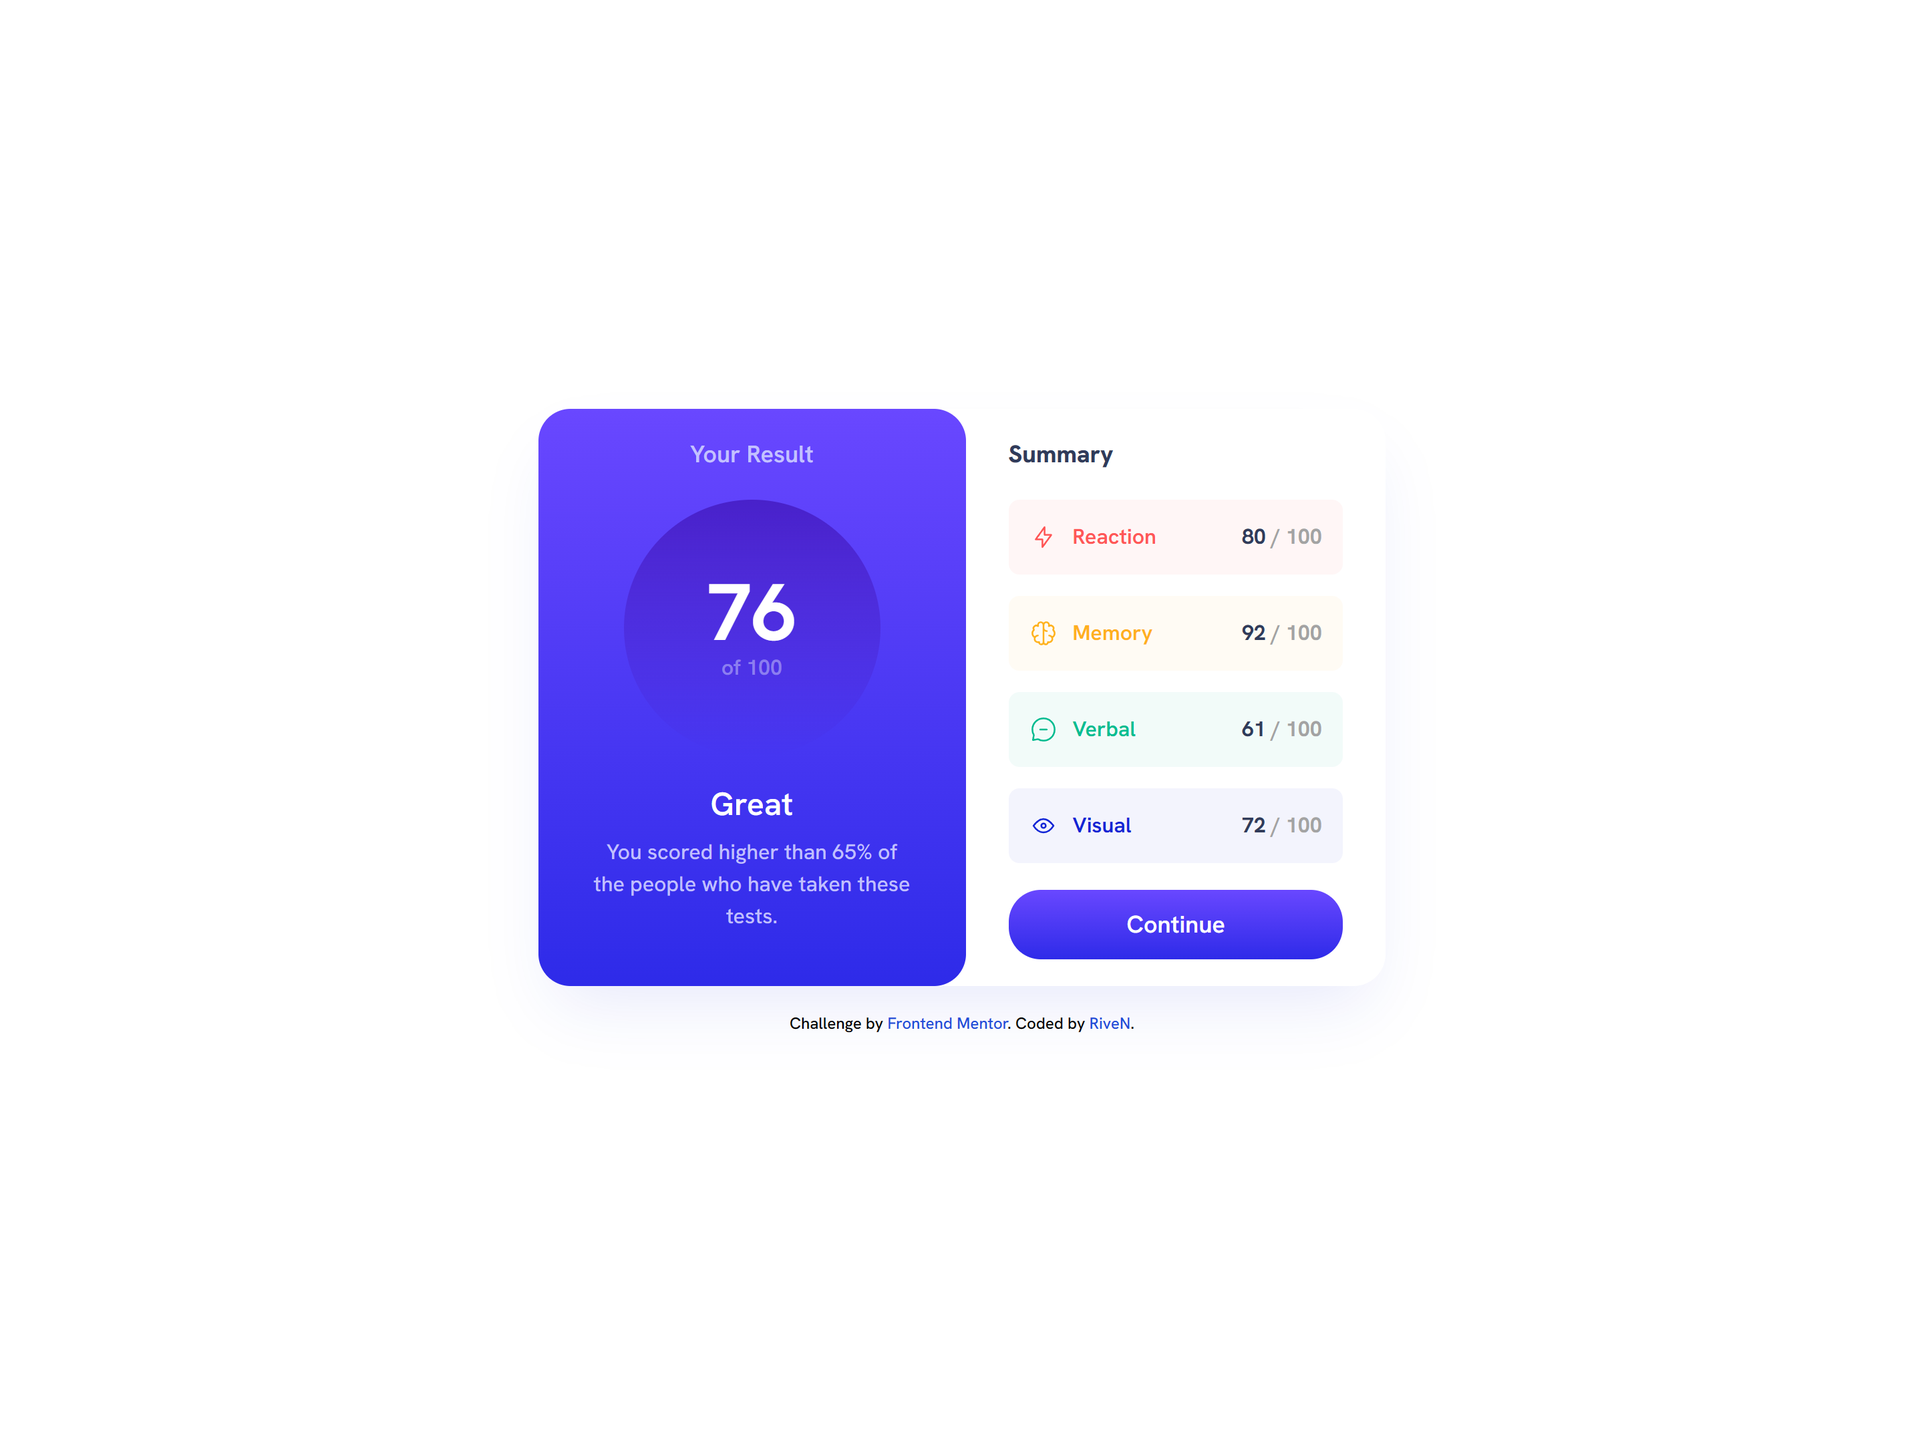
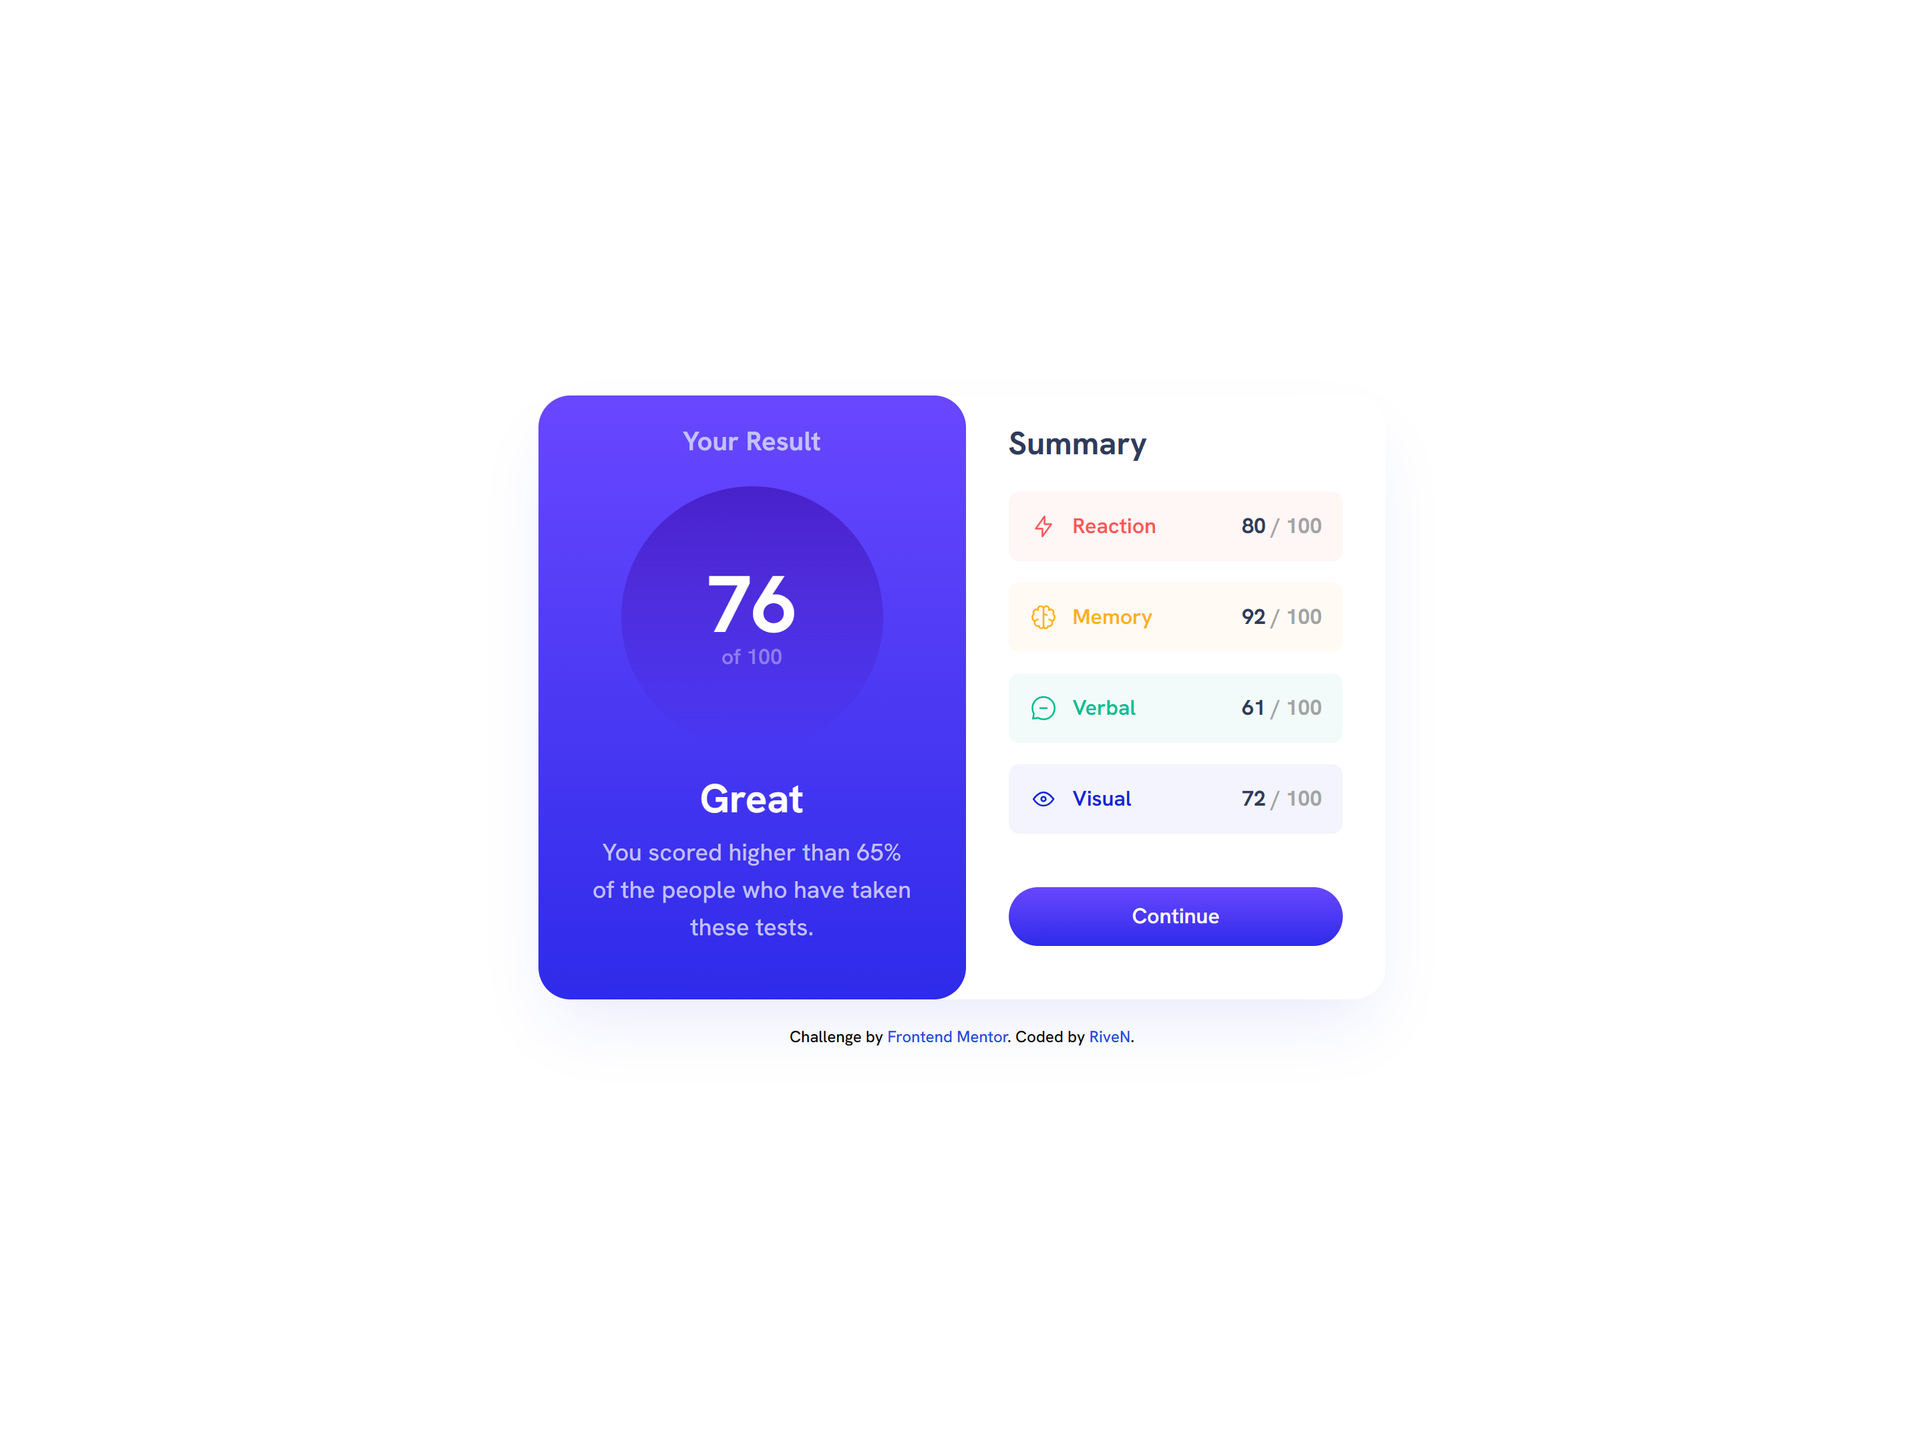
Improved desktop design better match with original

diff --git a/results-summary-component/styles.css b/results-summary-component/styles.css
@@ -1,1 +1,1 @@
-/*! tailwindcss v3.3.3 | MIT License | https://tailwindcss.com*/*,:after,:before{box-sizing:border-box;border:0 solid #e5e7eb}:after,:before{--tw-content:""}html{line-height:1.5;-webkit-text-size-adjust:100%;-moz-tab-size:4;-o-tab-size:4;tab-size:4;font-family:ui-sans-serif,system-ui,-apple-system,BlinkMacSystemFont,Segoe UI,Roboto,Helvetica Neue,Arial,Noto Sans,sans-serif,Apple Color Emoji,Segoe UI Emoji,Segoe UI Symbol,Noto Color Emoji;font-feature-settings:normal;font-variation-settings:normal}body{margin:0;line-height:inherit}hr{height:0;color:inherit;border-top-width:1px}abbr:where([title]){-webkit-text-decoration:underline dotted;text-decoration:underline dotted}h1,h2,h3,h4,h5,h6{font-size:inherit;font-weight:inherit}a{color:inherit;text-decoration:inherit}b,strong{font-weight:bolder}code,kbd,pre,samp{font-family:ui-monospace,SFMono-Regular,Menlo,Monaco,Consolas,Liberation Mono,Courier New,monospace;font-size:1em}small{font-size:80%}sub,sup{font-size:75%;line-height:0;position:relative;vertical-align:initial}sub{bottom:-.25em}sup{top:-.5em}table{text-indent:0;border-color:inherit;border-collapse:collapse}button,input,optgroup,select,textarea{font-family:inherit;font-feature-settings:inherit;font-variation-settings:inherit;font-size:100%;font-weight:inherit;line-height:inherit;color:inherit;margin:0;padding:0}button,select{text-transform:none}[type=button],[type=reset],[type=submit],button{-webkit-appearance:button;background-color:initial;background-image:none}:-moz-focusring{outline:auto}:-moz-ui-invalid{box-shadow:none}progress{vertical-align:initial}::-webkit-inner-spin-button,::-webkit-outer-spin-button{height:auto}[type=search]{-webkit-appearance:textfield;outline-offset:-2px}::-webkit-search-decoration{-webkit-appearance:none}::-webkit-file-upload-button{-webkit-appearance:button;font:inherit}summary{display:list-item}blockquote,dd,dl,figure,h1,h2,h3,h4,h5,h6,hr,p,pre{margin:0}fieldset{margin:0}fieldset,legend{padding:0}menu,ol,ul{list-style:none;margin:0;padding:0}dialog{padding:0}textarea{resize:vertical}input::-moz-placeholder,textarea::-moz-placeholder{opacity:1;color:#9ca3af}input::placeholder,textarea::placeholder{opacity:1;color:#9ca3af}[role=button],button{cursor:pointer}:disabled{cursor:default}audio,canvas,embed,iframe,img,object,svg,video{display:block;vertical-align:middle}img,video{max-width:100%;height:auto}[hidden]{display:none}@font-face{font-family:HankenGrotesk;src:url(assets/HankenGrotesk-VariableFont_wght.ttf);font-weight:500,700,800}*,::backdrop,:after,:before{--tw-border-spacing-x:0;--tw-border-spacing-y:0;--tw-translate-x:0;--tw-translate-y:0;--tw-rotate:0;--tw-skew-x:0;--tw-skew-y:0;--tw-scale-x:1;--tw-scale-y:1;--tw-pan-x: ;--tw-pan-y: ;--tw-pinch-zoom: ;--tw-scroll-snap-strictness:proximity;--tw-gradient-from-position: ;--tw-gradient-via-position: ;--tw-gradient-to-position: ;--tw-ordinal: ;--tw-slashed-zero: ;--tw-numeric-figure: ;--tw-numeric-spacing: ;--tw-numeric-fraction: ;--tw-ring-inset: ;--tw-ring-offset-width:0px;--tw-ring-offset-color:#fff;--tw-ring-color:#3b82f680;--tw-ring-offset-shadow:0 0 #0000;--tw-ring-shadow:0 0 #0000;--tw-shadow:0 0 #0000;--tw-shadow-colored:0 0 #0000;--tw-blur: ;--tw-brightness: ;--tw-contrast: ;--tw-grayscale: ;--tw-hue-rotate: ;--tw-invert: ;--tw-saturate: ;--tw-sepia: ;--tw-drop-shadow: ;--tw-backdrop-blur: ;--tw-backdrop-brightness: ;--tw-backdrop-contrast: ;--tw-backdrop-grayscale: ;--tw-backdrop-hue-rotate: ;--tw-backdrop-invert: ;--tw-backdrop-opacity: ;--tw-backdrop-saturate: ;--tw-backdrop-sepia: }.m-10{margin:2.5rem}.mx-8{margin-left:2rem;margin-right:2rem}.mx-auto{margin-left:auto;margin-right:auto}.my-5{margin-top:1.25rem;margin-bottom:1.25rem}.mb-2{margin-bottom:.5rem}.mt-0{margin-top:0}.mt-5{margin-top:1.25rem}.flex{display:flex}.aspect-square{aspect-ratio:1/1}.h-36{height:9rem}.w-full{width:100%}.flex-col{flex-direction:column}.items-center{align-items:center}.justify-center{justify-content:center}.justify-between{justify-content:space-between}.gap-16{gap:4rem}.gap-3{gap:.75rem}.space-y-4>:not([hidden])~:not([hidden]){--tw-space-y-reverse:0;margin-top:calc(1rem*(1 - var(--tw-space-y-reverse)));margin-bottom:calc(1rem*var(--tw-space-y-reverse))}.rounded-3xl{border-radius:1.5rem}.rounded-full{border-radius:9999px}.rounded-lg{border-radius:.5rem}.rounded-b-3xl{border-bottom-right-radius:1.5rem;border-bottom-left-radius:1.5rem}.bg-cobalt-blue{--tw-bg-opacity:1;background-color:hsl(234 85% 45%/var(--tw-bg-opacity))}.bg-dark-grayblue{--tw-bg-opacity:1;background-color:hsl(224 30% 27%/var(--tw-bg-opacity))}.bg-green-teal{--tw-bg-opacity:1;background-color:hsl(166 100% 37%/var(--tw-bg-opacity))}.bg-light-red{--tw-bg-opacity:1;background-color:hsl(0 100% 67%/var(--tw-bg-opacity))}.bg-orangey-yellow{--tw-bg-opacity:1;background-color:hsl(39 100% 56%/var(--tw-bg-opacity))}.bg-white{--tw-bg-opacity:1;background-color:rgb(255 255 255/var(--tw-bg-opacity))}.bg-opacity-5{--tw-bg-opacity:0.05}.bg-gradient-to-t{background-image:linear-gradient(to top,var(--tw-gradient-stops))}.from-light-royal-blue{--tw-gradient-from:#2e2be9 var(--tw-gradient-from-position);--tw-gradient-to:#2e2be900 var(--tw-gradient-to-position);--tw-gradient-stops:var(--tw-gradient-from),var(--tw-gradient-to)}.from-persian-blue{--tw-gradient-from:#2421ca00 var(--tw-gradient-from-position);--tw-gradient-to:#2421ca00 var(--tw-gradient-to-position);--tw-gradient-stops:var(--tw-gradient-from),var(--tw-gradient-to)}.to-light-slate-blue{--tw-gradient-to:#6947ff var(--tw-gradient-to-position)}.to-violet-blue{--tw-gradient-to:#4821ca var(--tw-gradient-to-position)}.p-3{padding:.75rem}.p-4{padding:1rem}.text-left{text-align:left}.text-center{text-align:center}.text-2xl{font-size:1.5rem;line-height:2rem}.text-6xl{font-size:3.75rem;line-height:1}.text-lg{font-size:1.125rem;line-height:1.75rem}.text-xs{font-size:.75rem;line-height:1rem}.font-bold{font-weight:700}.font-extrabold{font-weight:800}.font-medium{font-weight:500}.font-semibold{font-weight:600}.text-blue-700{--tw-text-opacity:1;color:rgb(29 78 216/var(--tw-text-opacity))}.text-cobalt-blue{--tw-text-opacity:1;color:hsl(234 85% 45%/var(--tw-text-opacity))}.text-dark-grayblue{--tw-text-opacity:1;color:hsl(224 30% 27%/var(--tw-text-opacity))}.text-green-teal{--tw-text-opacity:1;color:hsl(166 100% 37%/var(--tw-text-opacity))}.text-light-lavender{color:#c8c7fff2}.text-light-red{--tw-text-opacity:1;color:hsl(0 100% 67%/var(--tw-text-opacity))}.text-neutral-400{--tw-text-opacity:1;color:rgb(163 163 163/var(--tw-text-opacity))}.text-orangey-yellow{--tw-text-opacity:1;color:hsl(39 100% 56%/var(--tw-text-opacity))}.text-pale-blue{color:#ebf1ff66}.text-white{--tw-text-opacity:1;color:rgb(255 255 255/var(--tw-text-opacity))}.duration-300{transition-duration:.3s}body{font-family:HankenGrotesk,sans-serif}.hover\:bg-gradient-to-t:hover{background-image:linear-gradient(to top,var(--tw-gradient-stops))}.hover\:text-blue-500:hover{--tw-text-opacity:1;color:rgb(59 130 246/var(--tw-text-opacity))}@media (min-width:768px){.md\:mt-5{margin-top:1.25rem}.md\:h-full{height:100%}.md\:h-screen{height:100vh}.md\:max-w-xs{max-width:20rem}.md\:flex-row{flex-direction:row}.md\:rounded-3xl{border-radius:1.5rem}.md\:shadow-2xl{--tw-shadow:0 25px 50px -12px #00000040;--tw-shadow-colored:0 25px 50px -12px var(--tw-shadow-color);box-shadow:var(--tw-ring-offset-shadow,0 0 #0000),var(--tw-ring-shadow,0 0 #0000),var(--tw-shadow)}.md\:shadow-cobalt-blue\/10{--tw-shadow-color:#1125d41a;--tw-shadow:var(--tw-shadow-colored)}}
+/*! tailwindcss v3.3.3 | MIT License | https://tailwindcss.com*/*,:after,:before{box-sizing:border-box;border:0 solid #e5e7eb}:after,:before{--tw-content:""}html{line-height:1.5;-webkit-text-size-adjust:100%;-moz-tab-size:4;-o-tab-size:4;tab-size:4;font-family:ui-sans-serif,system-ui,-apple-system,BlinkMacSystemFont,Segoe UI,Roboto,Helvetica Neue,Arial,Noto Sans,sans-serif,Apple Color Emoji,Segoe UI Emoji,Segoe UI Symbol,Noto Color Emoji;font-feature-settings:normal;font-variation-settings:normal}body{margin:0;line-height:inherit}hr{height:0;color:inherit;border-top-width:1px}abbr:where([title]){-webkit-text-decoration:underline dotted;text-decoration:underline dotted}h1,h2,h3,h4,h5,h6{font-size:inherit;font-weight:inherit}a{color:inherit;text-decoration:inherit}b,strong{font-weight:bolder}code,kbd,pre,samp{font-family:ui-monospace,SFMono-Regular,Menlo,Monaco,Consolas,Liberation Mono,Courier New,monospace;font-size:1em}small{font-size:80%}sub,sup{font-size:75%;line-height:0;position:relative;vertical-align:initial}sub{bottom:-.25em}sup{top:-.5em}table{text-indent:0;border-color:inherit;border-collapse:collapse}button,input,optgroup,select,textarea{font-family:inherit;font-feature-settings:inherit;font-variation-settings:inherit;font-size:100%;font-weight:inherit;line-height:inherit;color:inherit;margin:0;padding:0}button,select{text-transform:none}[type=button],[type=reset],[type=submit],button{-webkit-appearance:button;background-color:initial;background-image:none}:-moz-focusring{outline:auto}:-moz-ui-invalid{box-shadow:none}progress{vertical-align:initial}::-webkit-inner-spin-button,::-webkit-outer-spin-button{height:auto}[type=search]{-webkit-appearance:textfield;outline-offset:-2px}::-webkit-search-decoration{-webkit-appearance:none}::-webkit-file-upload-button{-webkit-appearance:button;font:inherit}summary{display:list-item}blockquote,dd,dl,figure,h1,h2,h3,h4,h5,h6,hr,p,pre{margin:0}fieldset{margin:0}fieldset,legend{padding:0}menu,ol,ul{list-style:none;margin:0;padding:0}dialog{padding:0}textarea{resize:vertical}input::-moz-placeholder,textarea::-moz-placeholder{opacity:1;color:#9ca3af}input::placeholder,textarea::placeholder{opacity:1;color:#9ca3af}[role=button],button{cursor:pointer}:disabled{cursor:default}audio,canvas,embed,iframe,img,object,svg,video{display:block;vertical-align:middle}img,video{max-width:100%;height:auto}[hidden]{display:none}@font-face{font-family:HankenGrotesk;src:url(assets/HankenGrotesk-VariableFont_wght.ttf);font-weight:500,700,800}*,::backdrop,:after,:before{--tw-border-spacing-x:0;--tw-border-spacing-y:0;--tw-translate-x:0;--tw-translate-y:0;--tw-rotate:0;--tw-skew-x:0;--tw-skew-y:0;--tw-scale-x:1;--tw-scale-y:1;--tw-pan-x: ;--tw-pan-y: ;--tw-pinch-zoom: ;--tw-scroll-snap-strictness:proximity;--tw-gradient-from-position: ;--tw-gradient-via-position: ;--tw-gradient-to-position: ;--tw-ordinal: ;--tw-slashed-zero: ;--tw-numeric-figure: ;--tw-numeric-spacing: ;--tw-numeric-fraction: ;--tw-ring-inset: ;--tw-ring-offset-width:0px;--tw-ring-offset-color:#fff;--tw-ring-color:#3b82f680;--tw-ring-offset-shadow:0 0 #0000;--tw-ring-shadow:0 0 #0000;--tw-shadow:0 0 #0000;--tw-shadow-colored:0 0 #0000;--tw-blur: ;--tw-brightness: ;--tw-contrast: ;--tw-grayscale: ;--tw-hue-rotate: ;--tw-invert: ;--tw-saturate: ;--tw-sepia: ;--tw-drop-shadow: ;--tw-backdrop-blur: ;--tw-backdrop-brightness: ;--tw-backdrop-contrast: ;--tw-backdrop-grayscale: ;--tw-backdrop-hue-rotate: ;--tw-backdrop-invert: ;--tw-backdrop-opacity: ;--tw-backdrop-saturate: ;--tw-backdrop-sepia: }.m-10{margin:2.5rem}.mx-8{margin-left:2rem;margin-right:2rem}.mx-auto{margin-left:auto;margin-right:auto}.my-5{margin-top:1.25rem;margin-bottom:1.25rem}.mb-2{margin-bottom:.5rem}.mt-0{margin-top:0}.mt-5{margin-top:1.25rem}.flex{display:flex}.aspect-square{aspect-ratio:1/1}.h-36{height:9rem}.w-full{width:100%}.flex-col{flex-direction:column}.items-center{align-items:center}.justify-center{justify-content:center}.justify-between{justify-content:space-between}.gap-16{gap:4rem}.gap-3{gap:.75rem}.space-y-4>:not([hidden])~:not([hidden]){--tw-space-y-reverse:0;margin-top:calc(1rem*(1 - var(--tw-space-y-reverse)));margin-bottom:calc(1rem*var(--tw-space-y-reverse))}.rounded-3xl{border-radius:1.5rem}.rounded-full{border-radius:9999px}.rounded-lg{border-radius:.5rem}.rounded-b-3xl{border-bottom-right-radius:1.5rem;border-bottom-left-radius:1.5rem}.bg-cobalt-blue{--tw-bg-opacity:1;background-color:hsl(234 85% 45%/var(--tw-bg-opacity))}.bg-dark-grayblue{--tw-bg-opacity:1;background-color:hsl(224 30% 27%/var(--tw-bg-opacity))}.bg-green-teal{--tw-bg-opacity:1;background-color:hsl(166 100% 37%/var(--tw-bg-opacity))}.bg-light-red{--tw-bg-opacity:1;background-color:hsl(0 100% 67%/var(--tw-bg-opacity))}.bg-orangey-yellow{--tw-bg-opacity:1;background-color:hsl(39 100% 56%/var(--tw-bg-opacity))}.bg-white{--tw-bg-opacity:1;background-color:rgb(255 255 255/var(--tw-bg-opacity))}.bg-opacity-5{--tw-bg-opacity:0.05}.bg-gradient-to-t{background-image:linear-gradient(to top,var(--tw-gradient-stops))}.from-light-royal-blue{--tw-gradient-from:#2e2be9 var(--tw-gradient-from-position);--tw-gradient-to:#2e2be900 var(--tw-gradient-to-position);--tw-gradient-stops:var(--tw-gradient-from),var(--tw-gradient-to)}.from-persian-blue{--tw-gradient-from:#2421ca00 var(--tw-gradient-from-position);--tw-gradient-to:#2421ca00 var(--tw-gradient-to-position);--tw-gradient-stops:var(--tw-gradient-from),var(--tw-gradient-to)}.to-light-slate-blue{--tw-gradient-to:#6947ff var(--tw-gradient-to-position)}.to-violet-blue{--tw-gradient-to:#4821ca var(--tw-gradient-to-position)}.p-3{padding:.75rem}.p-4{padding:1rem}.text-left{text-align:left}.text-center{text-align:center}.text-2xl{font-size:1.5rem;line-height:2rem}.text-6xl{font-size:3.75rem;line-height:1}.text-lg{font-size:1.125rem;line-height:1.75rem}.text-xs{font-size:.75rem;line-height:1rem}.font-bold{font-weight:700}.font-extrabold{font-weight:800}.font-medium{font-weight:500}.font-semibold{font-weight:600}.leading-tight{line-height:1.25}.text-blue-700{--tw-text-opacity:1;color:rgb(29 78 216/var(--tw-text-opacity))}.text-cobalt-blue{--tw-text-opacity:1;color:hsl(234 85% 45%/var(--tw-text-opacity))}.text-dark-grayblue{--tw-text-opacity:1;color:hsl(224 30% 27%/var(--tw-text-opacity))}.text-green-teal{--tw-text-opacity:1;color:hsl(166 100% 37%/var(--tw-text-opacity))}.text-light-lavender{color:#c8c7fff2}.text-light-red{--tw-text-opacity:1;color:hsl(0 100% 67%/var(--tw-text-opacity))}.text-neutral-400{--tw-text-opacity:1;color:rgb(163 163 163/var(--tw-text-opacity))}.text-orangey-yellow{--tw-text-opacity:1;color:hsl(39 100% 56%/var(--tw-text-opacity))}.text-pale-blue{color:#ebf1ff66}.text-white{--tw-text-opacity:1;color:rgb(255 255 255/var(--tw-text-opacity))}.duration-300{transition-duration:.3s}body{font-family:HankenGrotesk,sans-serif}.hover\:bg-gradient-to-t:hover{background-image:linear-gradient(to top,var(--tw-gradient-stops))}.hover\:text-blue-500:hover{--tw-text-opacity:1;color:rgb(59 130 246/var(--tw-text-opacity))}@media (min-width:768px){.md\:my-10{margin-top:2.5rem;margin-bottom:2.5rem}.md\:mt-5{margin-top:1.25rem}.md\:h-full{height:100%}.md\:h-screen{height:100vh}.md\:max-w-xs{max-width:20rem}.md\:flex-row{flex-direction:row}.md\:rounded-3xl{border-radius:1.5rem}.md\:text-2xl{font-size:1.5rem;line-height:2rem}.md\:text-3xl{font-size:1.875rem;line-height:2.25rem}.md\:text-lg{font-size:1.125rem;line-height:1.75rem}.md\:text-xl{font-size:1.25rem;line-height:1.75rem}.md\:font-bold{font-weight:700}.md\:shadow-2xl{--tw-shadow:0 25px 50px -12px #00000040;--tw-shadow-colored:0 25px 50px -12px var(--tw-shadow-color);box-shadow:var(--tw-ring-offset-shadow,0 0 #0000),var(--tw-ring-shadow,0 0 #0000),var(--tw-shadow)}.md\:shadow-cobalt-blue\/10{--tw-shadow-color:#1125d41a;--tw-shadow:var(--tw-shadow-colored)}}

diff --git a/results-summary-component/index.html b/results-summary-component/index.html
@@ -15,27 +15,32 @@
 
 <body class="flex flex-col justify-center items-center text-center font-medium md:h-screen">
     <!-- Component -->
-    <main class="flex flex-col bg-white rounded-3xl md:shadow-2xl md:flex-row md:shadow-cobalt-blue/10">
+    <main
+        class="flex flex-col bg-white rounded-3xl leading-tight md:shadow-2xl md:flex-row md:shadow-cobalt-blue/10">
         <div
             class="flex flex-col rounded-b-3xl bg-gradient-to-t from-light-royal-blue to-light-slate-blue md:rounded-3xl md:max-w-xs">
-            <h1 class="text-light-lavender text-lg font-semibold my-5">Your Result</h1>
+            <h1 class="text-light-lavender text-lg font-semibold my-5 md:text-xl md:font-bold">Your Result
+            </h1>
             <div
                 class="flex flex-col justify-center items-center mx-auto aspect-square h-36 rounded-full bg-gradient-to-t to-violet-blue from-persian-blue md:h-full">
                 <p class="font-bold text-6xl text-white" id="score">0</p>
                 <p class="text-pale-blue font-semibold">of 100</p>
             </div>
-            <p class="text-white text-2xl font-semibold mt-5 mb-2">Great</p>
-            <p class="text-light-lavender m-10 mt-0">You scored higher than 65% of the people who have taken
+            <p class="text-white text-2xl font-semibold mt-5 mb-2 md:text-3xl md:font-bold">Great</p>
+            <p class="text-light-lavender m-10 mt-0 md:text-lg">You scored higher than 65% of the
+                people who have taken
                 these tests.</p>
         </div>
 
         <div class="mx-8">
-            <h2 class="text-dark-grayblue text-lg font-extrabold my-5 text-left">Summary</h2>
+            <h2 class="text-dark-grayblue text-lg font-extrabold my-5 text-left md:text-2xl md:font-bold">
+                Summary
+            </h2>
             <div id="content" class="space-y-4">
             </div>
 
             <button type="button"
-                class="bg-dark-grayblue text-white text-lg font-semibold w-full rounded-3xl p-3 my-5 hover:bg-gradient-to-t from-light-royal-blue to-light-slate-blue">Continue</button>
+                class="bg-dark-grayblue text-white font-semibold w-full rounded-3xl p-3 my-5 md:my-10 hover:bg-gradient-to-t from-light-royal-blue to-light-slate-blue">Continue</button>
         </div>
     </main>
     <!-- Attribution -->
